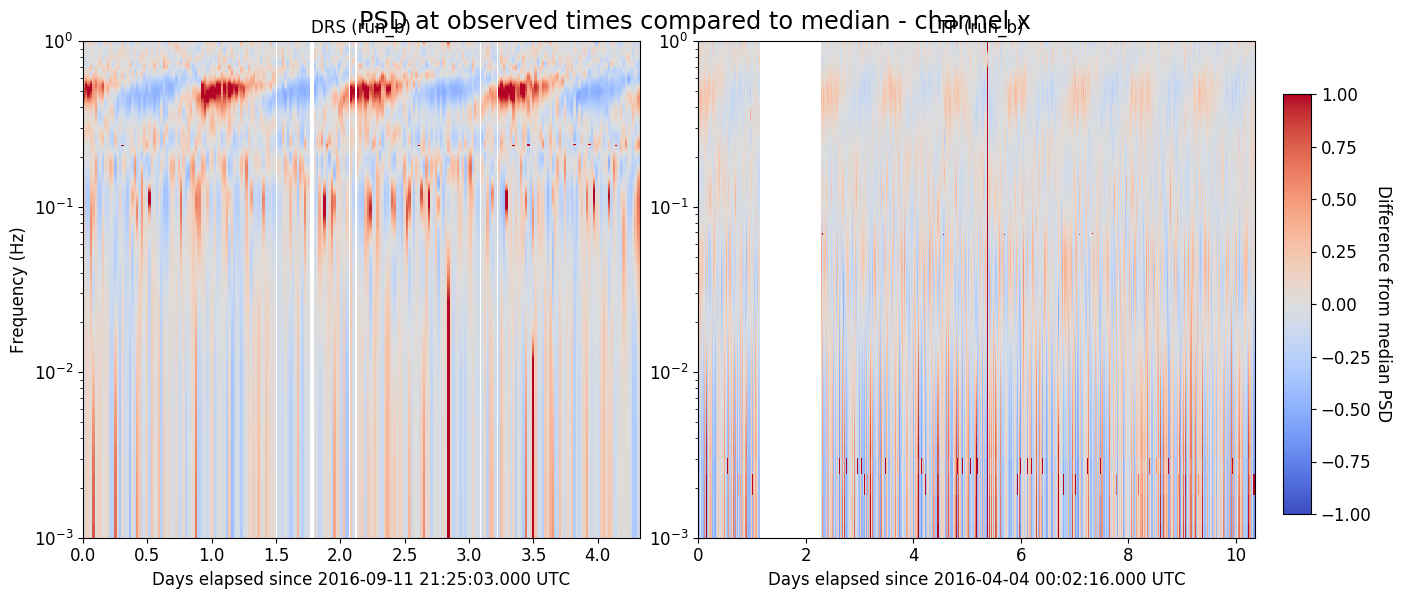
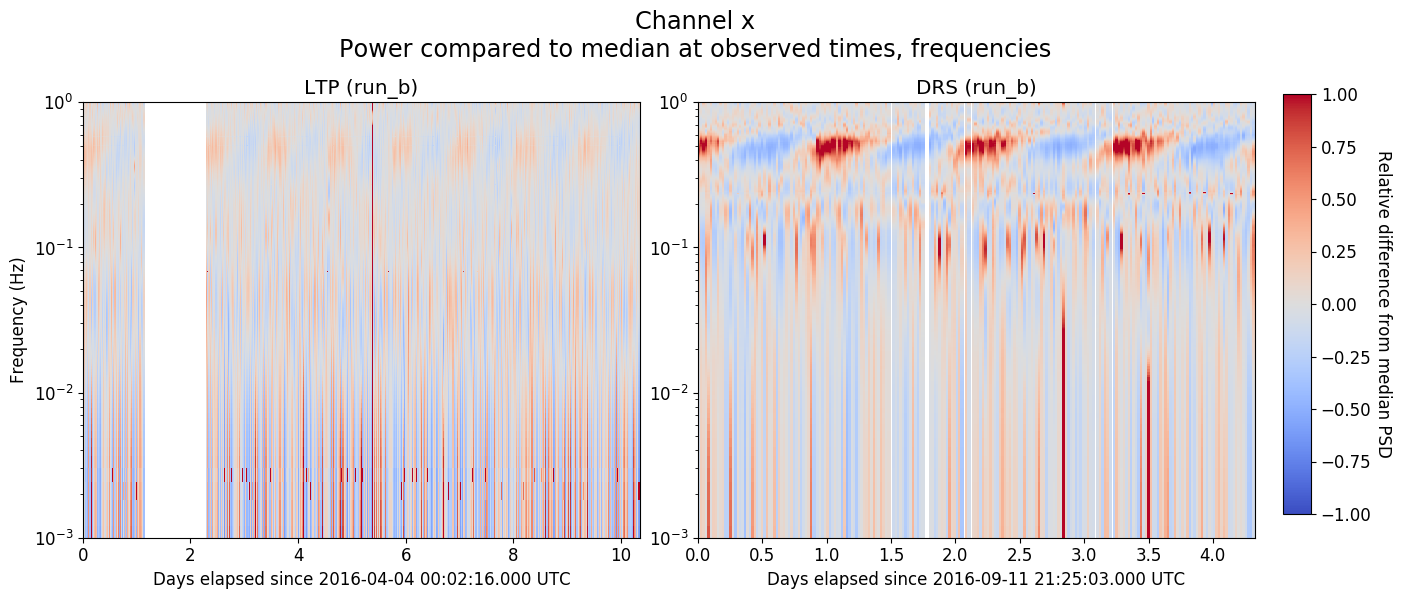
tweaked comparison plots

diff --git a/src/psd.py b/src/psd.py
@@ -107,9 +107,6 @@ def save_summary(run):
     summaries = pd.concat(summaries)
 
     # Check for time gaps and fill with NaN DataFrames
-    #times = run.gps_times[:-1]
-    #p = utils.Progress(times, 'Checking for time gaps...')
-    #N = 0
     print('Checking for time gaps...')
     frequencies = summaries.index.unique(level='FREQ')
     midx = pd.MultiIndex.from_product(
@@ -118,27 +115,6 @@ def save_summary(run):
     )
     filler = pd.DataFrame(columns=summaries.columns, index=midx)
     summaries = summaries.append(filler).sort_index(level=[0, 1, 2])
-    '''
-    for i, gps_time in enumerate(times):
-        diff = run.gps_times[i+1] - run.gps_times[i]
-        if diff > run.dt + 1:
-            # Number of new times to insert
-            n = int(np.floor(diff / run.dt))
-            N += n
-            # List of missing times, with same time interval
-            missing_times = [times[i] + run.dt * k for k in range(1, n + 1)]
-            # Create new MultiIndex for empty DataFrame
-            frequencies = summaries.index.unique(level='FREQ')
-            midx = pd.MultiIndex.from_product(
-                [run.channels, missing_times, frequencies],
-                names=['CHANNEL', 'TIME', 'FREQ']
-            )
-            # Create empty DataFrame, append to summaries, and sort
-            filler = pd.DataFrame(columns=summaries.columns, index=midx)
-            summaries = summaries.append(filler).sort_index(level=[0, 1, 2])
-        # Update progress indicator
-        p.update(i)
-    '''
     print(f'Filled {len(run.missing_times)} missing times with NaN.')
     
     # Output to file
@@ -172,6 +148,8 @@ def main():
     parser.add_argument('runs', type=str, nargs='*', 
         help='run directory name (default: all folders in "data/" directory)'
     )
+    parser.add_argument('-c', '--compare', dest='compare', action='store_true',
+            help='compare summary plots for different runs side by side')
     parser.add_argument('--overwrite-all', dest='overwrite', action='store_true',
         help='re-generate summary files even if they already exist (default: \
               ask for each run)'
@@ -221,30 +199,31 @@ def main():
             [run.gps_times[i] for i in indices]
         )
         
-        '''
-        p = utils.Progress(run.channels, 'Plotting...')
-        for i, channel in enumerate(run.channels):
-            # Colormap
-            cmap_file = os.path.join(run.plot_dir, f'colormap{i}.png')
-            plot.save_colormaps(run, channel, cmap_file)
-            # Frequency slices
-            fslice_file = os.path.join(run.plot_dir, f'fslice{i}.png')
-            plot.save_freq_slices([run], channel, plot_frequencies, 
-                    impacts=impacts, plot_file=fslice_file)
-            # Time slices
-            tslice_file = os.path.join(run.plot_dir, f'tslice{i}.png')
-            plot.save_time_slices(run, channel, slice_times, tslice_file)
-            # Update progress
-            p.update(i)
-        '''
+        if not args.compare:
+            p = utils.Progress(run.channels, 'Plotting...')
+            for i, channel in enumerate(run.channels):
+                # Colormap
+                cmap_file = os.path.join(run.plot_dir, f'colormap{i}.png')
+                plot.save_colormaps(run, channel, cmap_file)
+                # Frequency slices
+                fslice_file = os.path.join(run.plot_dir, f'fslice{i}.png')
+                plot.save_freq_slices([run], channel, plot_frequencies, 
+                        impacts=impacts, plot_file=fslice_file)
+                # Time slices
+                tslice_file = os.path.join(run.plot_dir, f'tslice{i}.png')
+                plot.save_time_slices(run, channel, slice_times, tslice_file)
+                # Update progress
+                p.update(i)
         
     # Plot run comparisons
-    p = utils.Progress(runs[0].channels, '\nPlotting run comparisons...')
-    for i, channel in enumerate(runs[0].channels):
-        plot.save_freq_slices(runs, channel, plot_frequencies, impacts=impacts,
-                plot_file=f'out/multi_fslice{i}.png')
-        plot.compare_colormaps(runs, channel, plot_file=f'out/multi_colormap{i}.png')
-        p.update(i)
+    if args.compare:
+        p = utils.Progress(runs[0].channels, '\nPlotting run comparisons...')
+        for i, channel in enumerate(runs[0].channels):
+            plot.compare_colormaps(runs, channel, 
+                    plot_file=f'out/multi_colormap{i}.png')
+            plot.save_freq_slices(runs, channel, plot_frequencies, 
+                    impacts=impacts, plot_file=f'out/multi_fslice{i}.png')
+            p.update(i)
     
     print('Done!')
 

diff --git a/src/plot.py b/src/plot.py
@@ -195,7 +195,8 @@ def save_colormaps(run, channel, plot_file, show=False):
 def compare_colormaps(runs, channel, plot_file=None, show=False):
     # Setup figure
     fig = plt.figure(figsize=(14, 6))
-    fig.suptitle(f'PSD at observed times compared to median - channel {channel}',
+    fig.suptitle(f'Channel {channel}\n' + \
+            'Power compared to median at observed times, frequencies',
             y=0.99, fontsize='xx-large')
     
     for i, run in enumerate(runs):
@@ -209,7 +210,7 @@ def compare_colormaps(runs, channel, plot_file=None, show=False):
         median = unstacked.median(axis=1)
         
         # Subplots
-        ax.title.set_text(f'{run.mode.upper()} ({run.name})')
+        ax.set_title(f'{run.mode.upper()} ({run.name})', size='x-large')
         im = colormap(fig, ax, run,
             unstacked.sub(median, axis=0).div(median, axis=0), 
             cmap=cm.get_cmap('coolwarm'), vlims=(-1,1),
@@ -220,15 +221,15 @@ def compare_colormaps(runs, channel, plot_file=None, show=False):
             ax.set_ylabel('Frequency (Hz)', fontsize='large')
     
     # Set tight layout
-    fig.tight_layout()
+    fig.tight_layout(rect=[0, 0, 1, 0.9])
     
     # Make colorbar
     fig.subplots_adjust(right=0.9)
     cbar_ax = fig.add_axes([0.92, 0.15, 0.02, 0.7])
     cbar = fig.colorbar(im, cax=cbar_ax)
     cbar.ax.tick_params(labelsize='large')
-    cbar.set_label('Difference from median PSD', labelpad=15, rotation=270, 
-            fontsize='large')
+    cbar.set_label('Relative difference from median PSD', labelpad=15, 
+            rotation=270, fontsize='large')
     
     if plot_file: plt.savefig(plot_file, bbox_inches='tight')
     if show: plt.show()
@@ -265,8 +266,8 @@ def save_freq_slices(runs, channel, frequencies, impacts=[],
     titlesize = 'xx-large'
     legendsize = 'large'
     # Labels and titles
-    plot_title = f'Channel {channel}' 
-    ylabel = 'Power at given frequency'
+    plot_title = f'Channel {channel}\nPower at selected frequencies over time' 
+    ylabel = 'Power at selected frequency'
     
     # Set up figure, grid
     fig = plt.figure(figsize=figsize)
